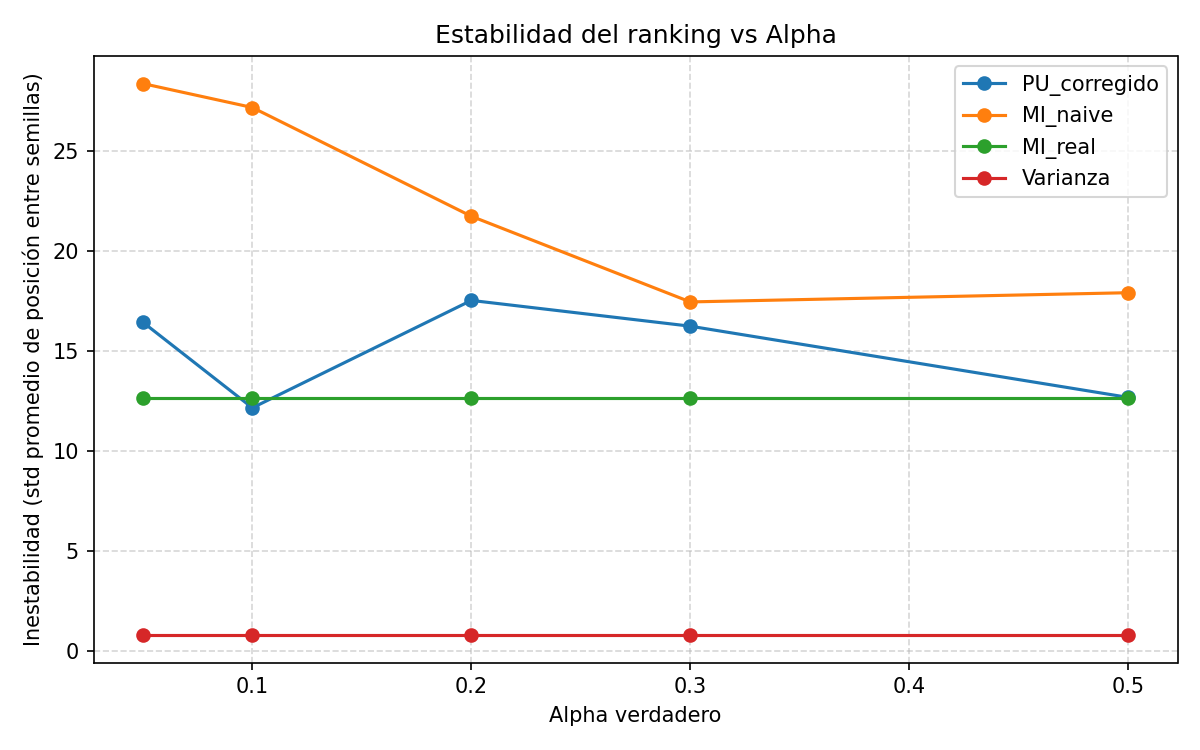
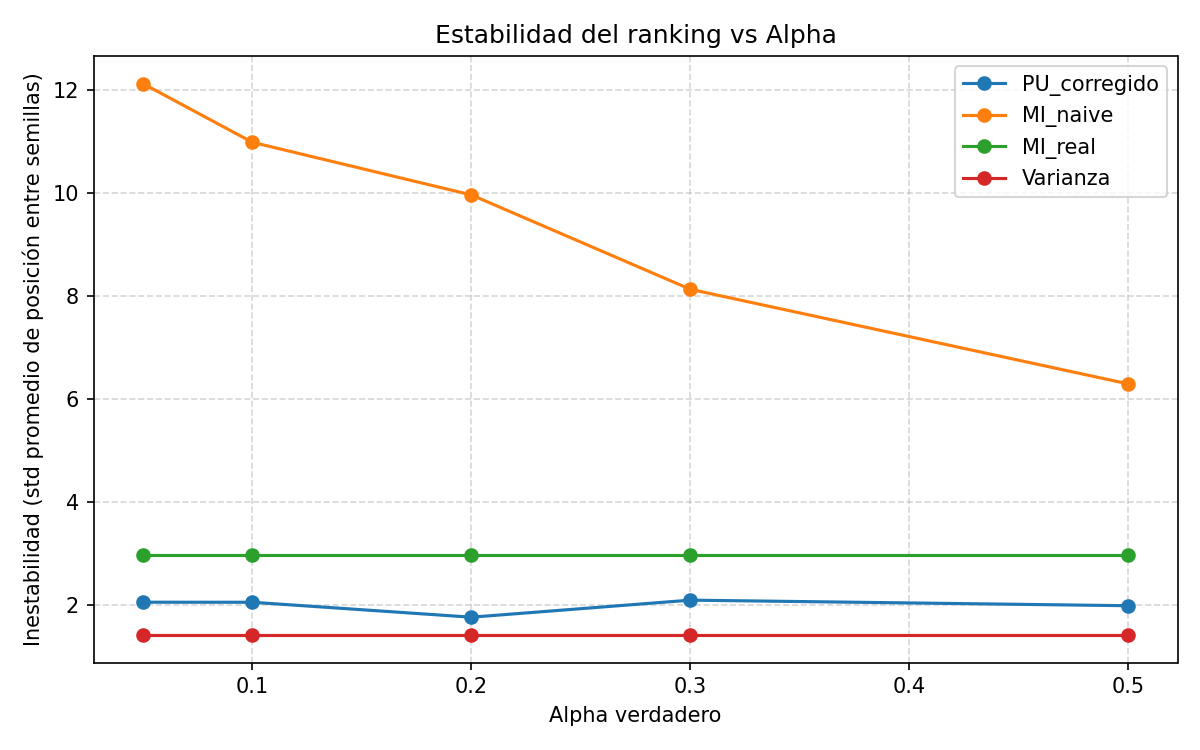
pipeline spambase sin ruido

diff --git a/main.py b/main.py
@@ -5,11 +5,7 @@ matplotlib.use('Agg')  # backend sin ventana
 import matplotlib.pyplot as plt
 import mlflow
 from mlflow.tracking import MlflowClient
-import io
-import os
-import urllib.request
-import zipfile
-from sklearn.datasets import load_svmlight_files
+from sklearn.datasets import fetch_openml
 from sklearn.model_selection import train_test_split
 
 from src.data_utiles import generar_etiquetas_pu, añadir_ruido_gaussiano
@@ -35,34 +31,13 @@ def _ranking_instability(rankings_list):
 
 def main():
     """Ejecuta experimento según el modo configurado (single o sweep)."""
-    # Gas Sensor Array Drift Dataset (UCI)
-    # 13 910 muestras, 128 features (16 sensores × 8 estadísticos), 6 gases
-    # Positivo: clase 1 (Etanol); negativo: el resto
-    _cache = os.path.join('data', 'gas_sensor_drift')
-    os.makedirs(_cache, exist_ok=True)
-    if not os.path.exists(os.path.join(_cache, 'batch1.dat')):
-        print('Descargando Gas Sensor Array Drift Dataset...', flush=True)
-        req = urllib.request.Request(
-            'https://archive.ics.uci.edu/ml/machine-learning-databases/00224/Dataset.zip',
-            headers={'User-Agent': 'Mozilla/5.0'}
-        )
-        with urllib.request.urlopen(req, timeout=120) as r:
-            raw = r.read()
-        with zipfile.ZipFile(io.BytesIO(raw)) as zf:
-            for m in zf.namelist():
-                if m.endswith('.dat'):
-                    dest = os.path.join(_cache, os.path.basename(m))
-                    with zf.open(m) as src, open(dest, 'wb') as dst:
-                        dst.write(src.read())
-    parts = load_svmlight_files(
-        [os.path.join(_cache, f'batch{i}.dat')
-         for i in ([SINGLE_BATCH] if SINGLE_BATCH is not None else range(1, 11))],
-        n_features=128
-    )
-    X = np.vstack([parts[i].toarray() for i in range(0, len(parts), 2)])
-    y_raw = np.concatenate([parts[i] for i in range(1, len(parts), 2)]).astype(int)
-    y = (y_raw == 1).astype(int)  # Etanol (clase 1) = positivo; resto = negativo
-    feature_names = np.array([f'sensor{(i // 8) + 1}_feat{(i % 8) + 1}' for i in range(128)])
+    # Spambase Dataset (UCI via OpenML)
+    # 4601 muestras, 57 features, binario: spam (1) / no spam (0)
+    # Escenario PU natural: no todo el spam está etiquetado
+    _dataset = fetch_openml(name="spambase", version=1, as_frame=False)
+    X = _dataset.data
+    y = _dataset.target.astype(int)
+    feature_names = np.array(_dataset.feature_names)
 
     # En modo single se itera una sola vez; en sweep se recorre la rejilla completa
     alphas = SWEEP_ALPHAS if RUN_MODE == 'sweep' else [ALPHA_TRUE]
@@ -83,10 +58,9 @@ def main():
         n_negatives = int((y == 0).sum())
         class_balance = round(n_positives / n_samples, 4) # proporción de positivos (que tan minoritaria es la clase positiva)
 
-        mlflow.log_param("dataset",            "gas_sensor_drift")
-        mlflow.log_param("positive_class",        "Ethanol (class 1)")
-        mlflow.log_param("single_batch",          str(SINGLE_BATCH) if SINGLE_BATCH is not None else "all")
-        mlflow.log_param("n_samples",          n_samples)
+        mlflow.log_param("dataset",       "spambase")
+        mlflow.log_param("positive_class", "spam (1)")
+        mlflow.log_param("n_samples",      n_samples)
         mlflow.log_param("n_features",         n_features)
         mlflow.log_param("n_positives",        n_positives)
         mlflow.log_param("n_negatives",        n_negatives)

diff --git a/src/config.py b/src/config.py
@@ -13,8 +13,5 @@ NOISE_LEVEL = 0
 
 # Parámetros generales
 TOP_K = 10
-EXPERIMENT_NAME = "gas_sensor_drift"
-RUN_NAME = "v3.0.0"
-
-# Batch único para aislar efecto drift (None = todos los batches; 1-10 = solo ese batch)
-SINGLE_BATCH = 1
+EXPERIMENT_NAME = "spambase"
+RUN_NAME = "v1.0.0"
